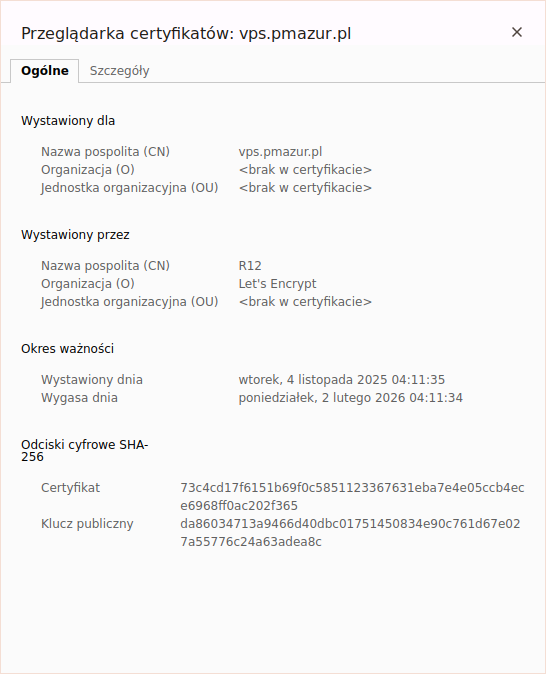
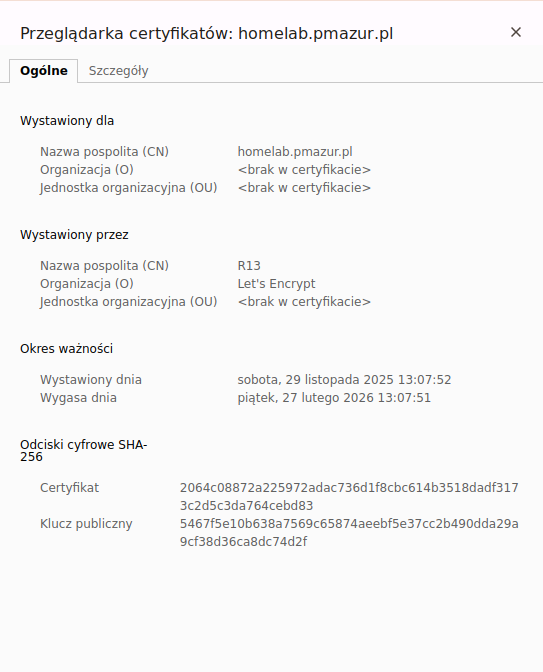
homelab-16 Obsługa certyfikatów w środowisku Traefik (#2)

diff --git a/_posts/2025-11-10-obsluga-certyfikatow-w-srodowisku-traefik.md b/_posts/2025-11-10-obsluga-certyfikatow-w-srodowisku-traefik.md
@@ -7,7 +7,7 @@ pośrednikiem pomiędzy naszym serwerem, a usługą www dowolnego uruchomionego 
 uruchomienie wielu usług na jednym wspólnym porcie http (80) oraz https (443), bez konieczności konfigurowania go dla
 każdego kontenera z osobna.
 
-# Let's Encrypt
+# Automatyczne generowanie certyfikatów
 
 W przypadku kiedy planujemy uruchomić usługę tak aby była dostępna z internetu, warto posłużyć się rozwiązaniem
 do generowania darmowych certyfikatów pod nasze strony wwww. Mowa oczywiście o [Let's Encrypt ](https://letsencrypt.org/pl/).
@@ -49,7 +49,7 @@ certificatesResolvers:
 ```
 ### Konfiguracja dnsChallenge
 
-Alternatywnym sposobem konfiguracji weryfikacji naszej domeny jest weryfikacja z użciem DNS. Wiąze się to z koniecznością,
+Alternatywnym sposobem konfiguracji weryfikacji naszej domeny jest weryfikacja z użciem DNS. Wiąże się to z koniecznością,
 umieszczenia wpisu TXT w naszej domenie. Do automatyzacji tego procesu konieczny będzie dostęp do API naszego dostawcy domeny.
 Dla tego sposobu zostanie wykorzystany klient [LEGO](https://go-acme.github.io/lego), dla którego lista wspieranych dostawców jest dostępna [tutaj](https://go-acme.github.io/lego/dns/).
 Aby przejść przez ten proces skonfigurowałem i wykorzystam do tego pośrednika Cloudflare.
@@ -71,21 +71,51 @@ konieczne będzie przekazanie zmiennych `CF_API_EMAIL` oraz `CF_DNS_API_TOKEN` d
 przez wejście na strone [User API Tokens](https://dash.cloudflare.com/profile/api-tokens) i generując go z uprawnieniami 
 "`Edit zone DNS`". 
 
-## Konfiguracja routera
+### Konfiguracja routera
 
 W tym momecie możemy przejść do konfiguracji routera, tak aby nasz kontener otrzymał możliwosć generowania certyfikatu.
 Dla naszego kontenera musimy zdefioniować kolejno regułę dla której będzie obsługiwany np. `Host('domena')`, wskazać resolver `acme`,
 oraz wybrać zdefioniowany entryPoint `websecure`.
 
 ```
-"traefik.http.routers.vps.rule=Host(`vps.pmazur.pl`)",
+"traefik.http.routers.vps.rule=Host(`homelab.pmazur.pl`)",
 "traefik.http.routers.vps.tls.certresolver=acme",
 "traefik.http.routers.vps.entryPoints=websecure",
 ```
 
-# Weryfikacja certyfikatu
+### Weryfikacja certyfikatu
 
 Dla tak przygotowanej konfiguracji nasza strona została zabezpieczona zaufanym certyfikatem TLS, a po wejściu na stronę,
 możemy zobaczyć wygenerowany certyfikat wystawiony przez Let's Encrypt.
 
 ![ssl-letsencrypt.png](/assets/images/ssl-letsencrypt.png)
+
+# Dostarczanie własnych certyfikatów
+
+Oczywiście jeśli dysponujemy zakupionym bądź [własnym wygenerowanym certyfiaktem]({% post_url 2025-10-30-tworzenie-wlasnego-ca-na-potrzeby-generowania-certyfikatow-ssl %}),
+możemy go również wykorzystać przy konfiguracji Traefika. Taki certyfikat będziemy musieli dostarczyć do magazynu certyfikatów,
+a ten na podstawie konifugracji routera, dostarczy dopasowany certyfikat dla naszego kontenera. Konfigurację należy więc
+zacząć od dodania konfiguracji naszego certyfikatu.
+
+```
+tls:
+  certificates:
+    - certFile: /var/lib/traefik/tls/Homelab.pem
+      keyFile: /var/lib/traefik/tls/Homelab.key
+```
+
+Należy także pamiętać o włączeniu trybu [TLS](https://doc.traefik.io/traefik/reference/routing-configuration/http/routing/router/#opt-tls) dla naszego routera.
+W moim przypadku dla kontenera dodałem następującą konfigurację.
+
+```
+"traefik.enable=true",
+"traefik.http.routers.home.rule=HOST(`homelab.lan`)",
+"traefik.http.routers.home.tls=true",
+```
+
+### Weryfikacja certyfikatu
+
+Po przeładowaniu konfugracji Traefika, możemy zobaczyć że nasz kontener jest obecnie obsłużony z użciem wcześniej wygenerowanego i
+podłączonego certyfikatu.
+
+![ssl-letsencrypt.png](/assets/images/ssl-home-cert.png)
